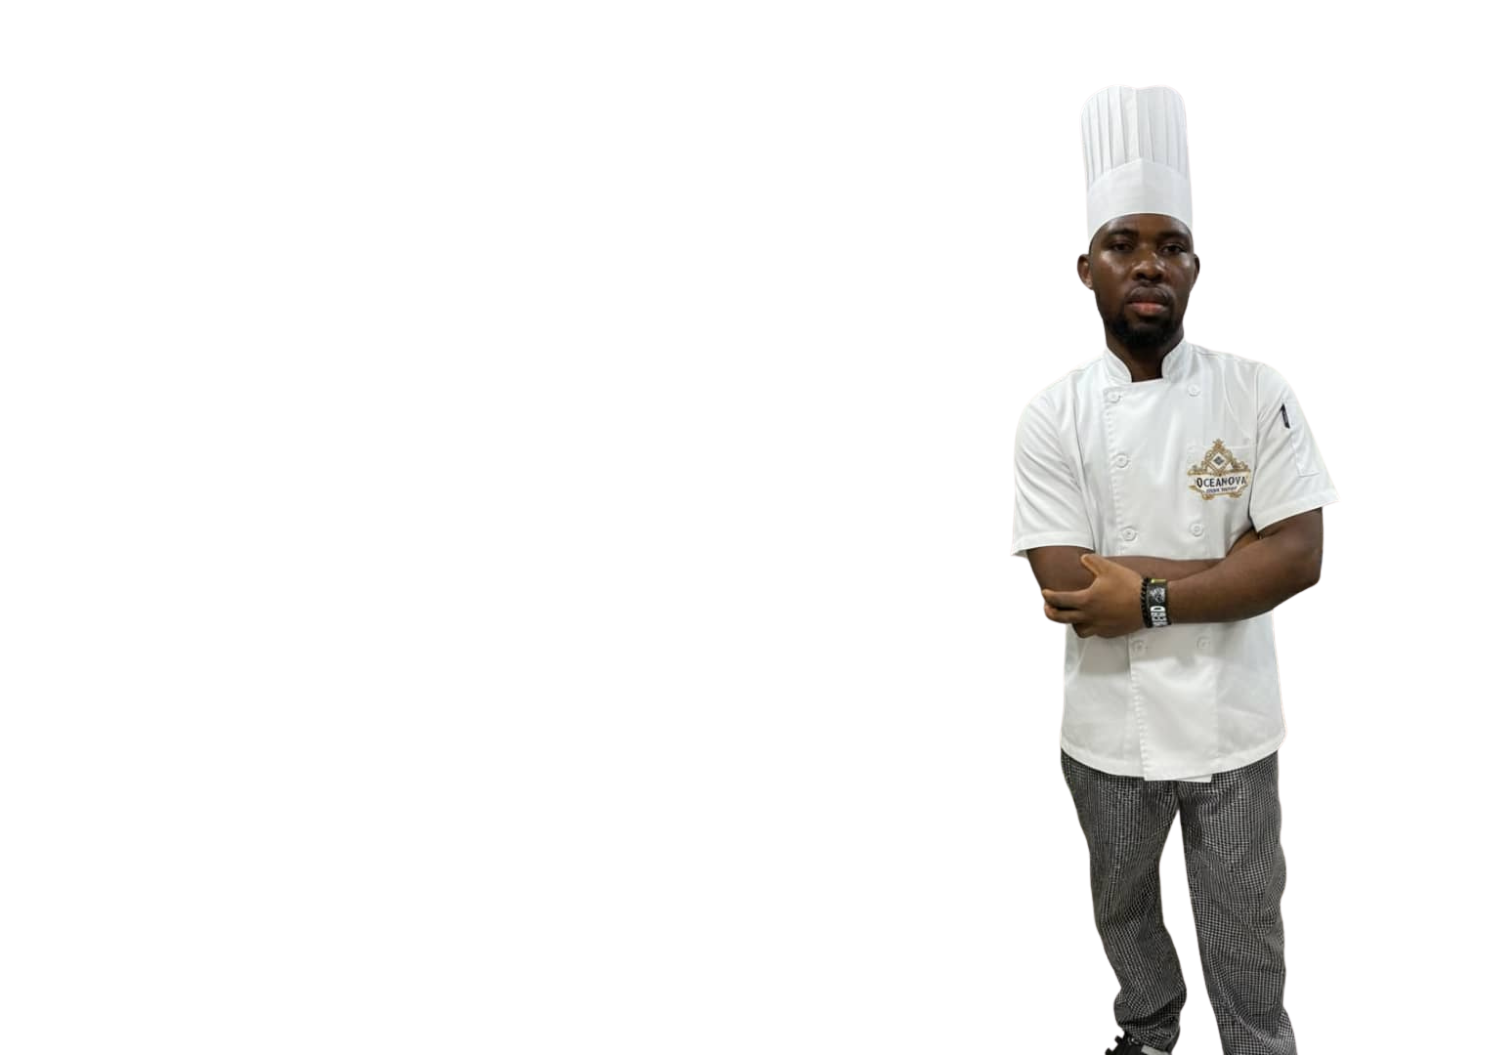
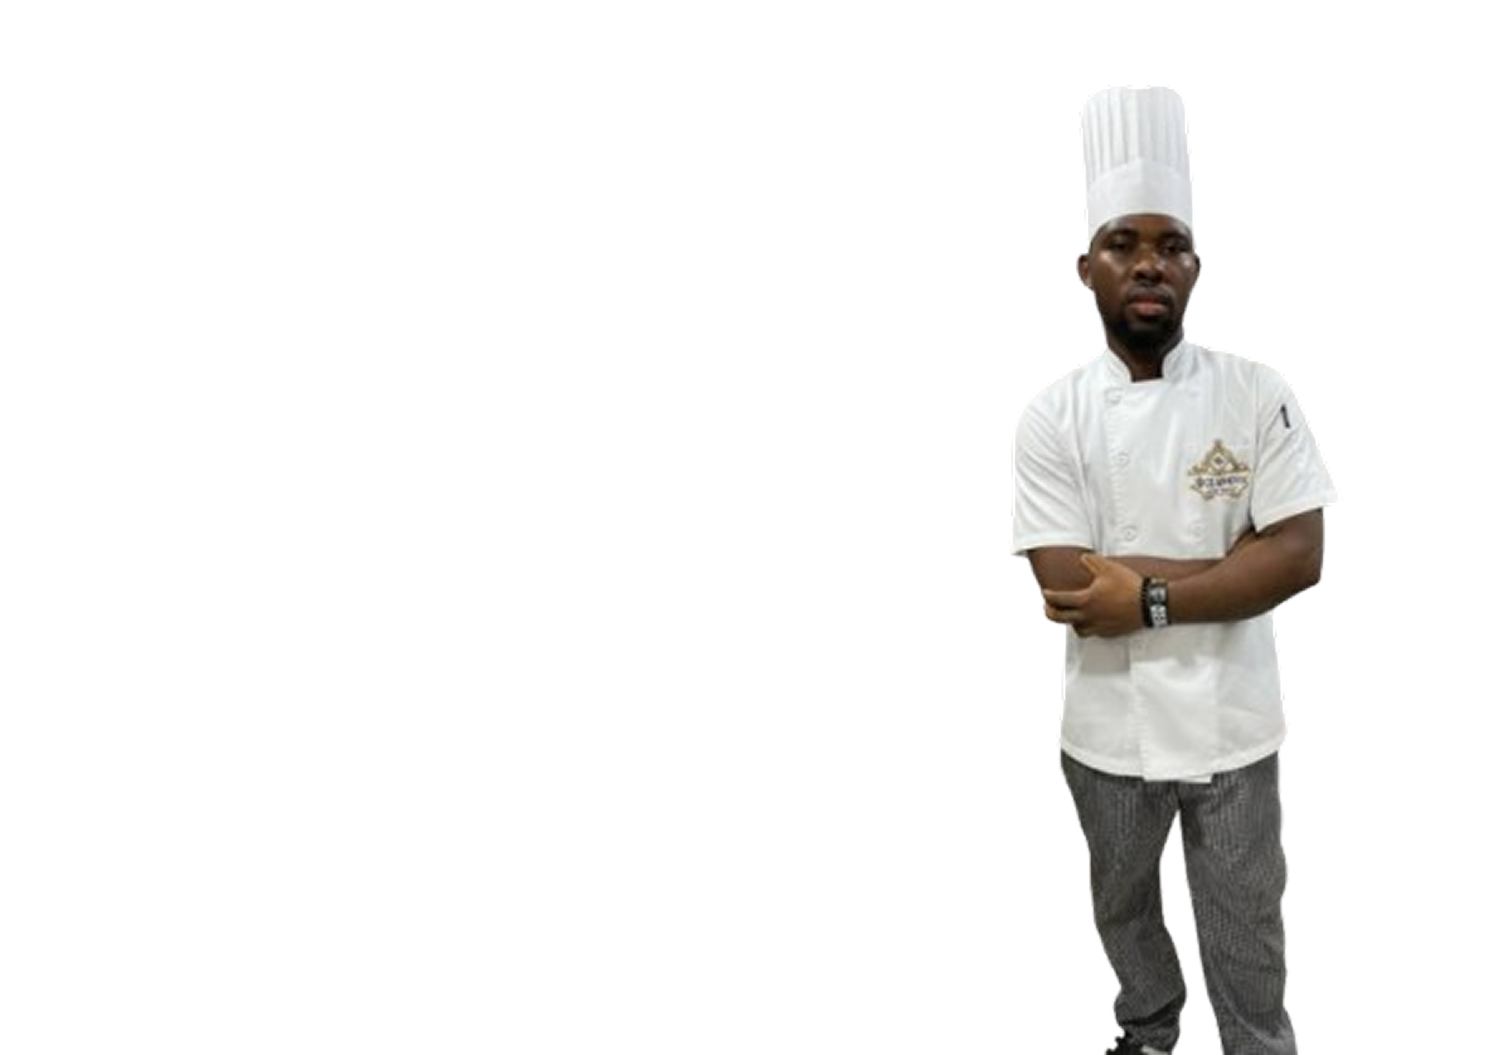
changed images colors again

diff --git a/public/assets/template/css/style.css b/public/assets/template/css/style.css
@@ -10049,3 +10049,13 @@ a:focus {
   border-color: var(--luxury-black) !important;
   color: var(--luxury-gold) !important;
 }
+
+.oceanova-about-section,
+.oceanova-menu-section {
+  background-color: var(--luxury-black) !important;
+}
+
+.oceanova-about-title,
+.oceanova-about-copy {
+  color: #fff !important;
+}

diff --git a/resources/views/home.blade.php b/resources/views/home.blade.php
@@ -35,7 +35,7 @@
 		</div>
 	</section>
 
-	<section class="ftco-section ftco-wrap-about ftco-no-pb ftco-no-pt" style="background-color: #211f1f;">
+	<section class="ftco-section ftco-wrap-about ftco-no-pb ftco-no-pt oceanova-about-section">
 		<div class="container">
 			<div class="row no-gutters">
 				<div class="col-sm-4 p-4 p-md-5 d-flex align-items-center justify-content-center bg-primary">
@@ -105,11 +105,11 @@
 							<div class="heading-section mt-5 mb-4">
 								<div class="pl-lg-3 ml-md-5">
 									<span class="subheading">About</span>
-									<h1 class="mb-4" style="color: #fff;">Welcome to Oceanova</h1>
+									<h1 class="mb-4 oceanova-about-title">Welcome to Oceanova</h1>
 								</div>
 							</div>
 							<div class="pl-lg-3 ml-md-5">
-								<p style="color: #fff;">Located in Okun Ajah, Oceanova brings you a refined fine‑dining experience you have never seen before. From our international dishes crafted by professional chefs to our warm, attentive service, every visit is designed to feel special. Whether you are celebrating a milestone or enjoying a quiet evening, Oceanova blends flavor, comfort, and elegance to create an unforgettable culinary moment.</p>
+								<p class="oceanova-about-copy">Located in Okun Ajah, Oceanova brings you a refined fine‑dining experience you have never seen before. From our international dishes crafted by professional chefs to our warm, attentive service, every visit is designed to feel special. Whether you are celebrating a milestone or enjoying a quiet evening, Oceanova blends flavor, comfort, and elegance to create an unforgettable culinary moment.</p>
 							</div>
 						</div>
 					</div>
@@ -130,7 +130,7 @@
 		</div>
 	</section>
 
-	<section class="ftco-section" style="background-color: #211f1f;">
+	<section class="ftco-section oceanova-menu-section">
 		<div class="container">
 			<div class="row justify-content-center mb-5 pb-2">
 				<div class="col-md-7 text-center heading-section ftco-animate">
